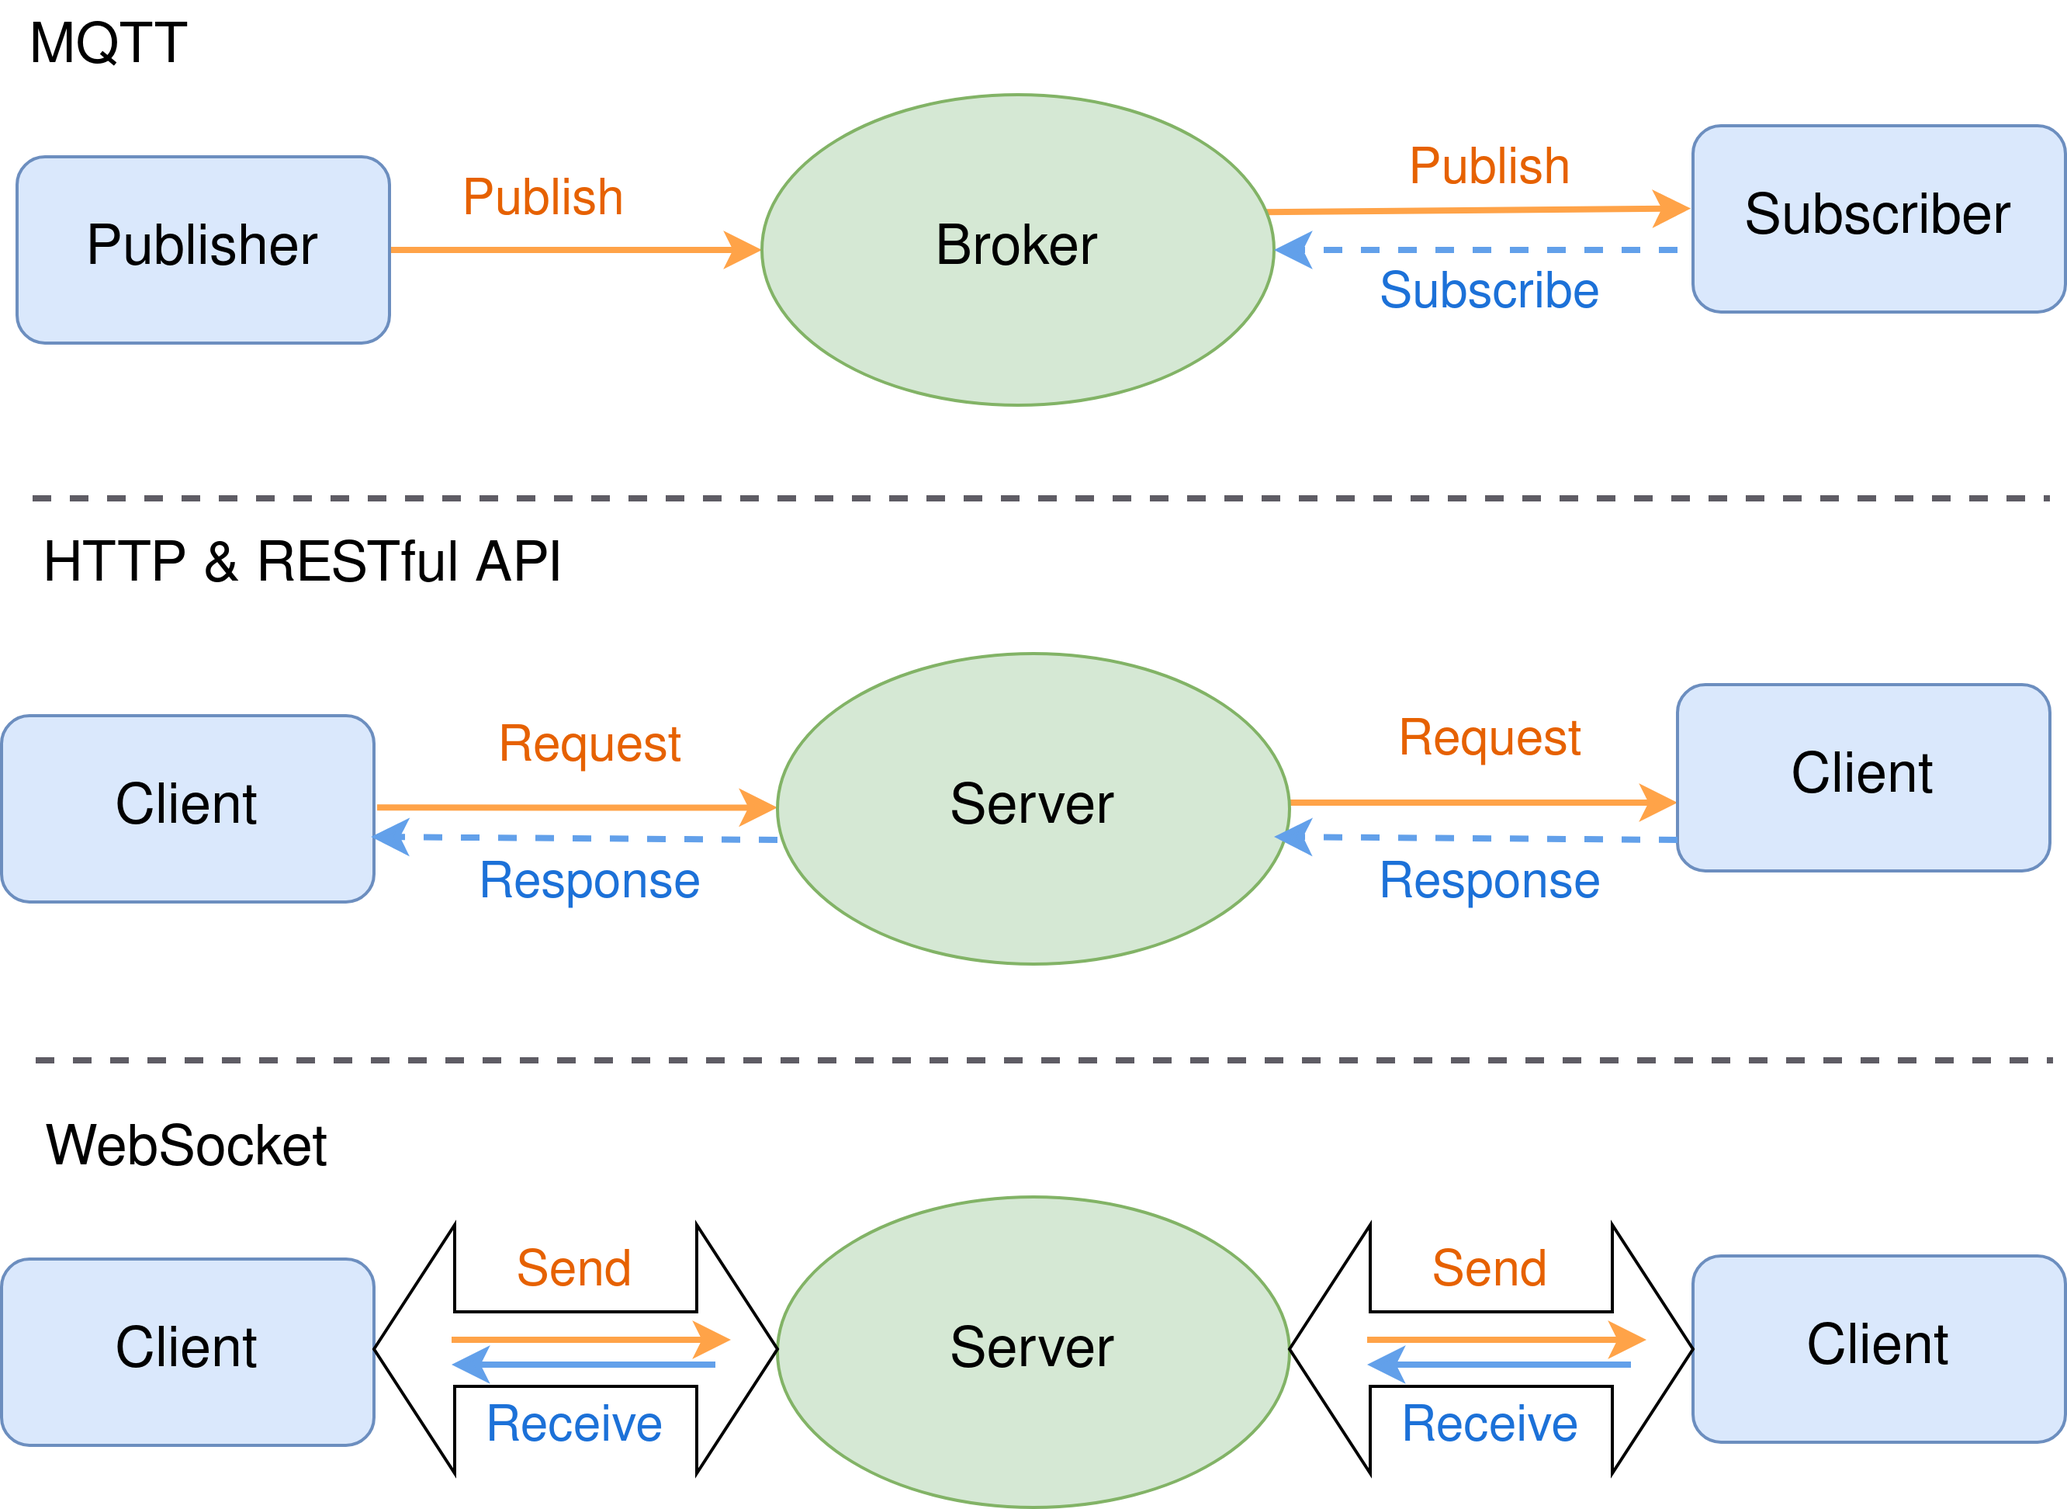
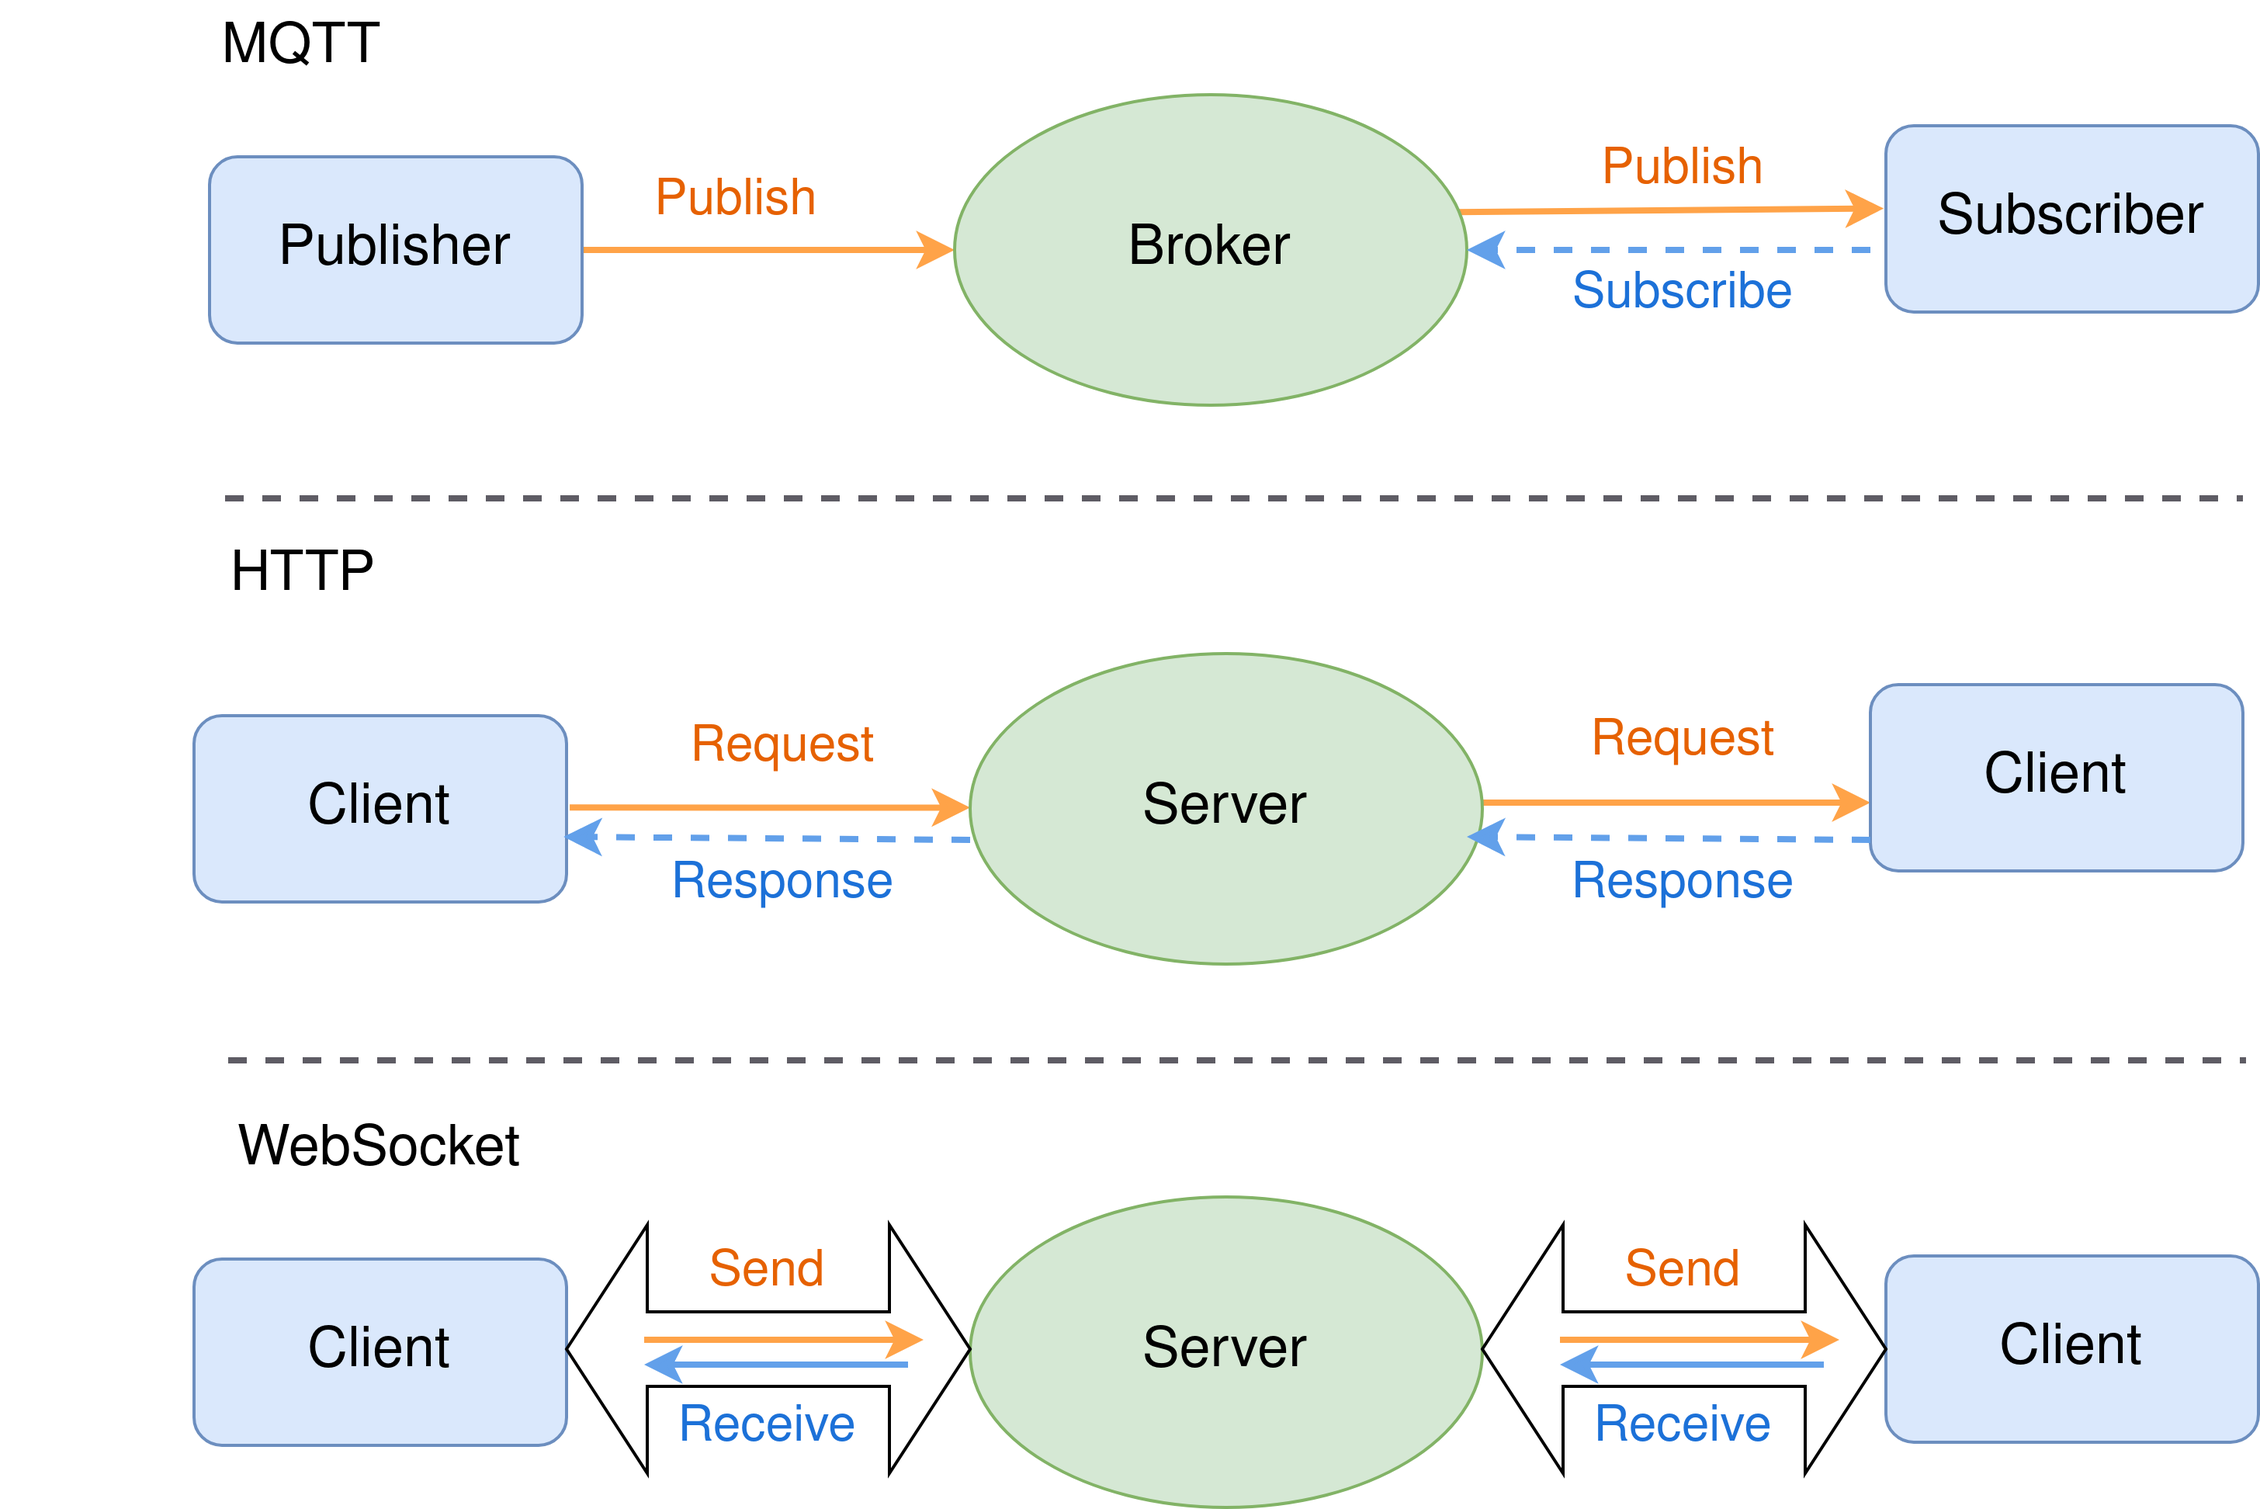
change

diff --git a/source/chapter03.tex b/source/chapter03.tex
@@ -179,7 +179,7 @@ internal routing.
 \subsection{\gls{osi} model and comparison between sockets relevant protocol layers}
 %figure conceptual MAS
 \begin{figure}[htbp]
-\includegraphics[width=0.8\textwidth]{figures/OSI.pdf}
+\includegraphics[width=0.8\textwidth]{figures/OSI.png}
 \centering
 \caption{\gls{osi} model with example protocols \label{fig: OSI}}
 \end{figure}
@@ -232,22 +232,22 @@ Because of the requirement of a reliable real time ordered data transfer with mi
     \caption{Characteristics of different technologies in application layer protocols}
     \label{tab: applicationlayer}
     \centering
-    \begin{tabular}{|m{0.13\textwidth}|m{0.2\textwidth}|m{0.2\textwidth}|m{0.2\textwidth}|m{0.2\textwidth}|}
+    \begin{tabular}{|m{0.15\textwidth}|m{0.25\textwidth}|m{0.25\textwidth}|m{0.25\textwidth}|}
     \hline
-    \multicolumn{5}{|c|}{\textbf{Application layer protocols}} \\ \hline
-    \textbf{Aspect} & \textbf{HTTP} & \textbf{WebSocket} & \textbf{RESTful API} & \textbf{MQTT} \\ \hline
-    Use cases & Web pages, images, videos, World Wide Web, etc & Such as chat applications, live gaming, etc & Web and mobile applications with data management requirement & Usually in IoT with limited bandwidth \\ \hline
-    Functionality & Request-response protocol based on TCP, foundation for both RESTful APIs and the initial connection in WebSockets & Bi-directional, real-time communication & Uses standard HTTP methods to perform CRUD (Create, Read, Update, Delete) & Lightweight message transport, runs over TCP \\ \hline
-    Security & Use SSL/TLS & ws (unsecured) and wss (secured with SSL/TLS) & Similar to HTTP, can be further secured using various authentication mechanisms like OAuth, JWT & Use TLS, like username/password authentication and optional message-level security \\ \hline
-    Message patterns & Request-Response & Full Duplex (send and receive independent) & Request-Response & Publish-Subscribe \\ \hline
-    Connection type & No connection needed & Persistent {connection} & No connection needed & Persistent connection \\ \hline
-    State & Stateless & Stateful & Stateless & Stateful \\ \hline
-    Overhead & Overhead for each request-response cycle, especially for new connections & After the initial handshake (HTTP), data frames are lightweight & Similar to HTTP, dependent on API design & Minimal message overhead \\ \hline
-    Realtime capability & Less Capable & Highly Suitable & Variable & Highly Suitable \\ \hline
-    Flexibility & Supported in all environments & Supported in most modern web browsers and many backend environments & Similar to HTTP & Highly flexible \\ \hline
-    Adaptability to dynamic changes & Relative lower (influenced by stateless nature) & High & Relative lower (influenced by stateless nature) & High \\ \hline
-    Capability of handling instability & Less capable, requires a stable connection for each request-response cycle & Less stable if connection disruptions happen frequently & Identical to HTTP & Capable, Ideal for remote locations with limited connectivity \\ \hline
-    Scalability & Less scalable, require more infrastructure support & Highly scalable, maintains connections for real-time interactions & similar to HTTP, dependent on API design & Highly scalable based on broker-client message transport \\ \hline
+    \multicolumn{4}{|c|}{\textbf{Application layer protocols}} \\ \hline
+    \textbf{Aspect} & \textbf{HTTP} & \textbf{WebSocket}  & \textbf{MQTT} \\ \hline
+    Use cases & Web pages, images, videos, World Wide Web, etc & Such as chat applications, live gaming, etc & Usually in IoT with limited bandwidth \\ \hline
+    Functionality & Request-response protocol based on TCP, foundation for both RESTful APIs and the initial connection in WebSockets & Bi-directional, real-time communication & Lightweight message transport, runs over TCP \\ \hline
+    Security & Use SSL/TLS & ws (unsecured) and wss (secured with SSL/TLS) & Use TLS, like username/password authentication and optional message-level security \\ \hline
+    Message patterns & Request-Response & Full Duplex (send and receive independent) & Publish-Subscribe \\ \hline
+    Connection type & No connection needed & Persistent {connection} & Persistent connection \\ \hline
+    State & Stateless & Stateful & Stateful \\ \hline
+    Overhead & Overhead for each request-response cycle, especially for new connections & After the initial handshake (HTTP), data frames are lightweight & Minimal message overhead \\ \hline
+    Realtime capability & Less Capable & Highly Suitable & Highly Suitable \\ \hline
+    Flexibility & Supported in all environments & Supported in most modern web browsers and many backend environments & Highly flexible \\ \hline
+    Adaptability to dynamic changes & Relative lower (influenced by stateless nature) & High & High \\ \hline
+    Capability of handling instability & Less capable, requires a stable connection for each request-response cycle & Less stable if connection disruptions happen frequently & Capable, Ideal for remote locations with limited connectivity \\ \hline
+    Scalability & Less scalable, require more infrastructure support & Highly scalable, maintains connections for real-time interactions & Highly scalable based on broker-client message transport \\ \hline
     \end{tabular}
 \end{sidewaystable}
 
@@ -257,7 +257,6 @@ To get a closer look of the tab.\ref{tab: applicationlayer}, a horizontal compar
 \begin{itemize}
     \item \gls{http}
     \item WebSocket
-    \item RESTful API
     \item and \gls{mqtt}
 \end{itemize}
 
@@ -276,7 +275,7 @@ For the \gls{mqtt}, publisher publish (send) a message within a topic to the bro
 For response, a new topic needed to be started, but there is no guarantee that the original publisher is listening, which is a drawback for send-and-receive patterns of \gls{mas}. 
 
 Relatively, the other three protocols will be considered as more appropriate. 
-For instance both HTTP and RESTful API run in request-response mechanism. 
+For instance \gls{http} runs in request-response mechanism. 
 A client posts (sends) messages to the server for the other client will get (receive) from it. 
 Whether the GET and POST method are successful or not, a response will be given back. With this mechanism, each time a message is going through the server, a new connection will be established and closed after responses are sent. 
 The inconsistent connection will consume more communication time and lead to higher latency. 
@@ -512,11 +511,15 @@ Finally the message will be either processed further or sent directly to the rec
 \end{breakablealgorithm}
 
 \subsection{Pseudo-Code of one to one agent communication workflow in RESTful API}
-A more comparable application layer protocol is RESTful API, which has the request-response mechanism with more addtional functionalities compared to \gls{http}. 
-Therefore RESTful API was considered as an alternative of communication protocol other than WebSocket. 
+A more comparable application layer protocol is \gls{http}, which has the request-response mechanism with more addtional functionalities compared to \gls{http}. 
+Therefore \gls{http} was considered as an alternative of communication protocol other than WebSocket. 
 However, based on some test results in chapter \ref{chap: Result}, WebSocket is 
 proved to be more appropriate.
-As a result, different from WebSocket, the design of RESTful API based system is only built for performance testing and comparison with WebSocket.
+As a result, different from WebSocket, the design of \gls{http} based system is only built 
+for performance testing and compared to WebSocket. In the methods below, RESTful API will be used 
+as a Web Service API, which is an interface to connect two devices over the internet based on 
+\gls{http} protocol. With the design based on RESTful API, the clients can communicate with each other 
+by using its standard \gls{crud} operations for example POST and GET to send and receive messages. 
 Therefore, the RESTful API system is simplified to be an one to one agent communication without other functionalities like decision making or message prioritization, etc.
 
 According to the pseudo code for agentSR (send and receive messages) and 

diff --git a/source/chapter04.tex b/source/chapter04.tex
@@ -13,7 +13,7 @@ will be passed through the \gls{ca} under WebSocket architecture.
 Various tests will be done and the test results will be discussed later in section 
 \ref{chap: Result-WS}. 
 In addition to the performance testing of WebSocket architecture alone, 
-a comparison between WebSocket and RestFUL API will be done to verify the feasibility 
+a comparison between WebSocket and \gls{http} will be done to verify the feasibility 
 of WebSocket. 
 Finally, tests relevant to packets prioritization will be performed to close 
 the sections. 
@@ -108,7 +108,7 @@ device, the loads between each process might be unbalanced and added up by the
 increment of servers. 
 
 
-\subsubsection{Increasing string message length}
+\subsubsection{Increasing string message length}\label{chap: Result-Internal-string}
 Another important test should be done to verify the influence of packet size (i.e., 
 message length) to the system performance, according to the formula of packet 
 transmission time: 
@@ -124,7 +124,7 @@ The linear dependency of latency and string size in both forward
 has verified the transmission time formula. It is also noticeable that the server 
 process time increases by the rising message byte number. In real world scenarios, 
 a large string message should be chunked into smaller pieces for communication, 
-which will significantly reduce the process time. For the purpose of system limit 
+which will significantly reduce the process time consumption. For the purpose of system limit 
 inspection, a string with the size up to 100MB is also tested and resulting in 
 system timeout error, which already exceeds the server maximal 
 processing capacity. 
@@ -152,13 +152,13 @@ processing capacity.
         \caption{} \label{fig: proportional-stringsize-d}
     \end{subfigure}
     \caption{Average delay of sending and receiving a string message varied from 1KB 
-    to 10MB for 100 times between 2 clients. (a) Messages clientS sent forward, 
+    to 10MB for 100 times between 2 clients. (a) Messages clientSR sent forward, 
     (b) response messages from clientR, (c) Messages sent forward in log form 
-    and (d) response messages from clientR in log form. 
+    and (d) response messages from clientRS in log form. 
     \label{fig: proportional-stringsize}}
 \end{figure}
 
-\subsubsection{Increasing jsonified image message size}
+\subsubsection{Increasing image message length}
 In addition to string, images are also frequently tranported between different agents. 
 However, unlike most string messages, image size could be significantly larger 
 and even up to over 100MB (raw images). Moreover, the agents ID or message priority 
@@ -207,9 +207,9 @@ futher transported directly.
         \caption{} \label{fig: proportional-imagesize-d}
     \end{subfigure}
     \caption{Average delay of sending and receiving a jsonified image message varied from 1KB 
-    to 100MB for 100 times between 2 clients. (a) Messages clientS sent forward, 
+    to 100MB for 100 times between 2 clients. (a) Messages clientSR sent forward, 
     (b) response messages from clientR, (c) Messages sent forward in log form 
-    and (d) response messages from clientR in log form. 
+    and (d) response messages from clientRS in log form. 
     \label{fig: proportional-imagesize}}
 \end{figure}
 
@@ -221,10 +221,11 @@ different message transport mechanism will have a similar or completely differen
 performance under the same conditions. As demonstrated from the 
 fig.\ref{fig: MsgConceptual}, \gls{http} is designed for message 
 transfer in both directions, and therefore more comparable with WebSocket among the others. 
-A common interface for web service design based on \gls{http} is called RESTful API, 
-which supports more features than common \gls{http} API. As a result, RESTful API will 
-be used for the design of a similar architecture as WebSocket and 
-tested under the same condition of the WebSocket string test.
+As a result, a \gls{http} based interface RESTful API is designed under the similar architecture 
+as WebSocket and tested under the same condition of the WebSocket string test in 
+section \ref{chap: Result-Internal-string}.
+
+
 
 
 \begin{figure}[htb]
@@ -255,7 +256,33 @@ tested under the same condition of the WebSocket string test.
     \label{fig: proportional-rest-stringsize}}
 \end{figure}
 
-\subsection{priority tests of WS server in diff. performance testing} \label{chap: Result-priority}
+
+
+
+
+\subsection{Test results of message prioritization of a WebSocket server in various 
+performance testing} \label{chap: Result-priority}
+Despite the consideration of speed, robustness, reliability and application size in an agent 
+communication system, the server which serves as a \gls{ca} should have addtional 
+functionalities rather than pure message transport. As listed in tab.\ref{tab:designPatterns}, 
+the \gls{ca} should focus on the design of a communication interface, which should be able to 
+process various messages with different data types (e.g., jsonified images), handle a large 
+number of agents connections and prioritize the incoming messages. In the following sections, 
+the performance of server handling message prioritization will be tested and further discussed.  
+\subsubsection{Measurgin method}
+In order to verify the prioritization mechanism of the server, a delay of 1s should be added to the 
+non-prioritized message processing. In the test, two kinds of messages are sent conccurently to the server, 
+the normal and the critical messages. If more than one message with different priority levels 
+enter the server simultaneously, the critical messages should be processed first. The add up of 
+delay also reflects the real world scenarios: if a critical message representing an emergent stop 
+or a task with higher priority in production comes in, every other processe in the server 
+should wait until the critical message is sent. 
+\subsubsection{String message priority test}
+The first string priority test is done for 10 clients. The following figure shows the \gls{rtt} 
+of non-prioritized and prioritized message transport. 
+
+
+\subsubsection{Image message priority test}
 
 \section{External}\label{chap: Result-External}
 

diff --git a/source/abbreviations.tex b/source/abbreviations.tex
@@ -35,7 +35,8 @@
 \newacronym{iot}{IoT}{Internet Of Things}%
 \newacronym{rci}{RCI}{Robot Control Interface}%
 \newacronym{cpu}{CPU}{Central Processing Unit}%
-
+\newacronym{crud}{CRUD}{Create, read, update and delete}%
+\newacronym{rtt}{RTT}{Round-Trip Time}%
 %----------------------------
 \newacronym{ir}{IR}{infrared}%
 \newacronym{iwb}{\textit{iwb}}{Institut für Werkzeugmaschinen und Betriebswissenschaften}%
